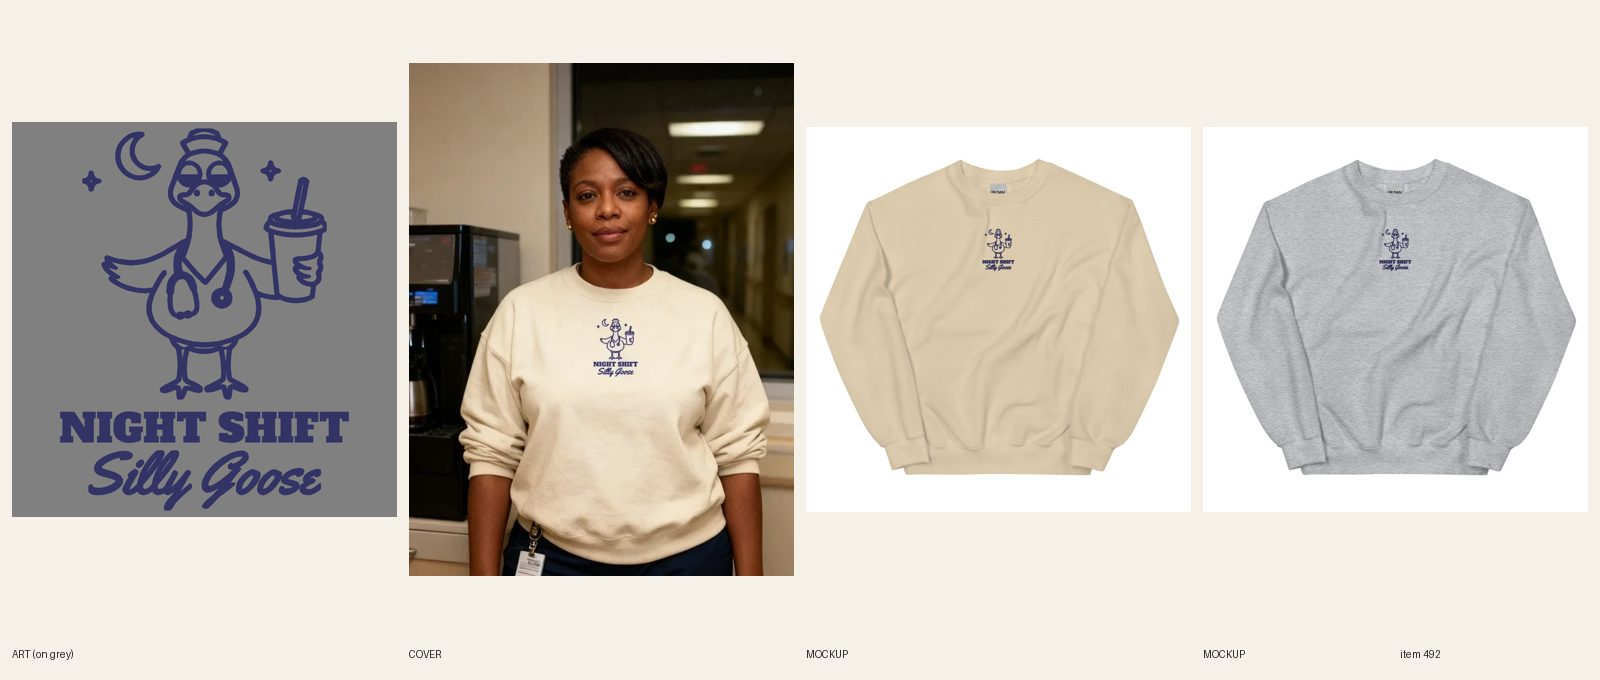
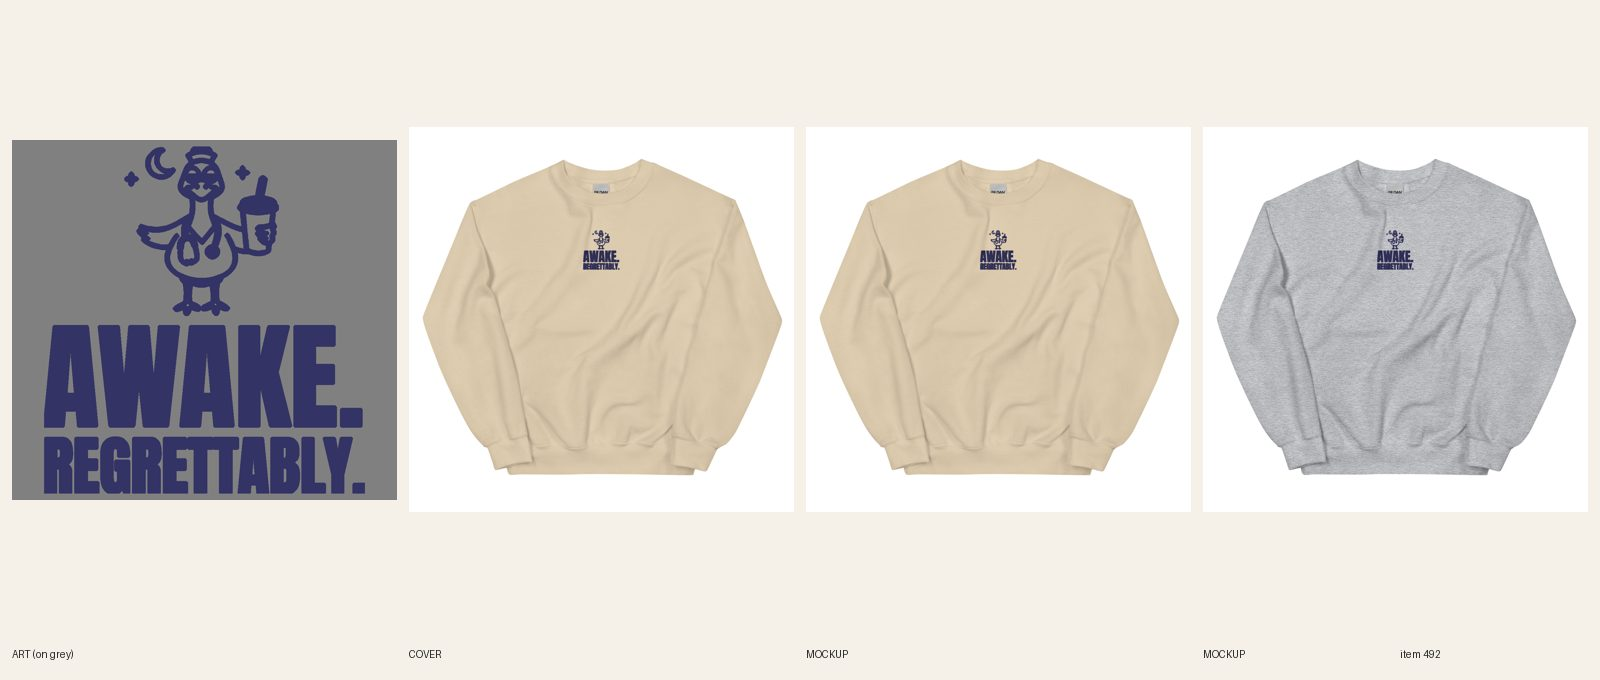
[B] review 492 Awake Regrettably embroidered nurse crewneck (line + type redo)

Changed region(s): [[0.0, 0.0926, 0.5, 0.8647], [0.8438, 0.3397, 0.9062, 0.4015], [0.5938, 0.3397, 0.6562, 0.4015]]

diff --git a/docs/pipeline/492-embroidered-crew-night-shift-silly-goose.md b/docs/pipeline/492-embroidered-crew-night-shift-silly-goose.md
@@ -1,4 +1,4 @@
-status: BUILDING [B] 2026-10-20 06:13
+status: REVIEW
 lane: B
 type: new
 id: 492
@@ -32,3 +32,4 @@ kd: 34
 - 2026-10-18 00:58 UTC builder [B]: full build (no draft existed). Art: 1 Recraft call, kept (tired goose in scrubs, nurse cap, stethoscope, to-go cup, moon and stars; no red cross). NIGHT SHIFT (AlfaSlabOne) and Silly Goose (Yellowtail) set by PIL, not model-drawn; art lines and script pre-thickened (thickening everything had clogged the slab letters). emb-prep: 3.00 x 3.97 in at true scale, p10 stroke 1.35 mm (slightly under 1.5 mm in the thinnest face details; letters are bold). ONE thread #333366 (Printful palette navy), because pf-emb-sync links one thread per product (the two-color plan with old-gold moon is not possible); reads on Sand and Sport Grey. Colors Sand + Sport Grey (navy thread would vanish on Navy). DRAFT gid 15364311679280, category aa-1-13-14, 12 variants $39.99 (34.99 + 5 chest), compareAtPrice null, tags per brief, keyword night shift nurse 4,400/KD34 in line one and meta, FAQ 6 x 40-60 words incl. Dec 8, copy says stitched/embroidered. Printful file 1088588687, pf-emb-sync 12/12 flat stitch + back logo; v2 embroidery mockups Sand + Sport Grey + back attached and linked. Phone-size read: the lettering is legible on both mockups at true scale but small; director please judge. Cover: registry 817, 1 fal photo; Silly Goose letters slightly off, so per 9b the exact embroidery file is composited on the chest; alt starts "Woman". Audit --handle: only "not visible on the storefront" (DRAFT). astro build OK. fal $0.10.
 - 2026-10-18 00:29 UTC director: LIVE. One navy thread reads on Sand and Sport Grey; goose, cap, cup and both lines read at phone size; badge clip at the hip, clear of the stitch. ACTIVE + Online Store/Headless/Google & YouTube, audit PASS 0 warn.
 - 2026-10-18 17:22 UTC director: QUALITY RESET grade C (new line + type), REDO. The product stays ACTIVE (same handle, URL, title keyword). 1. Line (R3.12, quality-reset 'Lines'): "NIGHT SHIFT / Silly Goose": Mild noun phrase, no joke; script second line. Write 5 candidates, keep the one a stranger laughs at in 3 seconds without backstory; kill lines that only describe the picture; if none of the 5 is funny, PARK it. 2. Quality reset type bar (docs/backlog/quality-reset.md, 'The new bar'): headline at least 90% of the art width, heavy, colors pulled from the art; second line at least 45% of the headline's height, never a thin script on a dark or mid garment; use the lettering as a shape (arch, stacked lockup, words breaking into the art), not a plain bar above and a script line below; no font used on more than 1 in 6 of the last 30 designs. 3. Keep the art if it carries the new line, else one new illustration (R4/R5). New print means a new cover per R6.10, copy line one rewritten for the new joke (R8.3), and a fresh review sheet (R7.7). While quality-reset.md says PAUSED, only lane A builds, and only the samples step 2 names.
+- 2026-10-20 07:10 UTC builder [B]: REDO 492 (C grade, line + type) done in place (stays ACTIVE, handle unchanged; title now "Women's Nurse – Embroidered Awake. Regrettably. Crewneck Sweatshirt"). 5 candidates: "AWAKE. / REGRETTABLY."; "Awake Professionally" (first try: PROFESSIONALLY. clogged at 0.3 in and was unreadable on the mockup, replaced); "Night Shift Silly Goose" (old); "Running On Hospital Coffee"; "Sleep Is For Day Shift". Kept AWAKE. / REGRETTABLY. (deadpan, the 3 a.m. goose with the coffee carries it). Same goose line art (cropped above the old words), new lettering only, no fal ($0): Anton caps, goose scaled to 62% so the words are the loud part. emb-prep 3.33 x 3.60 in (inside 4 x 4), thinnest stroke 1.52 mm, REGRETTABLY. capitals about 0.6 in tall, AWAKE. about 1.0 in. Ink widths (R3.7.8 / builder 7h): headline AWAKE. 1000 px / punch REGRETTABLY. 1000 px (equal width). One thread #333366 navy (Printful palette) on Sand and Sport Grey. File 1090206171, 12/12 synced on the new embroidery_chest_center file, back logo kept. Front + back mockups replaced in place, alts, title, SEO, copy, FAQs updated. Phone-size read: AWAKE. reads, REGRETTABLY. reads but is small at 400 px (the 4 in limit), director please judge. Cover: handle added to retired-covers.json. audit --handle PASS. Sheet docs/review/492.jpg.

diff --git a/docs/intake-log.md b/docs/intake-log.md
@@ -2,6 +2,7 @@ RUNNING lane C since 2026-10-20 06:30 UTC
 RUNNING helper since 2026-10-20 05:44 UTC
 2026-10-20 06:55 UTC — [D] Director run: inbox nothing new. 6 LIVE (cap): #358 #650 #221 #237 #246 #251, audit PASS. Reviewed 25 redos: 19 approved and held (5 stale titles fixed), 6 REDO (#341 #354 #436 #506 #536 #621). Builder card 7h sharpened (height never makes up for punch width). New lane B brief #716 farming shirt (5,400 / KD 33). No Telegram (digest not due, nothing needs Sam). Lock released.
 2026-10-20 06:20 UTC — [E] Builder run: redid #472 Unisex Embroidered crewneck (line + type: CIRCLE / BACK / NEVER., twin of #473 hoodie, Sand navy thread + Navy white thread, 12/12 synced). REVIEW. fal $0.
+2026-10-20 06:27 UTC — [B] Builder run: redid #492 Women's Nurse embroidered crewneck (line + type: AWAKE. / REGRETTABLY., same goose line art, Anton in navy thread, 12/12 synced; ink widths 1000/1000 px). REVIEW. fal $0.
 2026-10-20 06:11 UTC — [A] Builder run: redid #332 Women's NYE Resolutions Pending tee (line+type: NEW YEAR, NEW ME. / STARTING JAN 2., same disco ball art, Bevan full width, file 1090193042, 30/30 relinked, 5 fronts replaced in place, copy updated, plain product shot). REVIEW. fal $0.
 RUNNING lane B since 2026-10-20 05:30 UTC
 2026-10-20 06:21 UTC — [B] Builder run: built #697 Women's Outdoorsy in Theory cropped hoodie (new art $0.04, OUTDOORSY / IN THEORY. Playfair 900, Black + Storm because Peach is XL-only, 10/10 synced, plain product shot). REVIEW.
